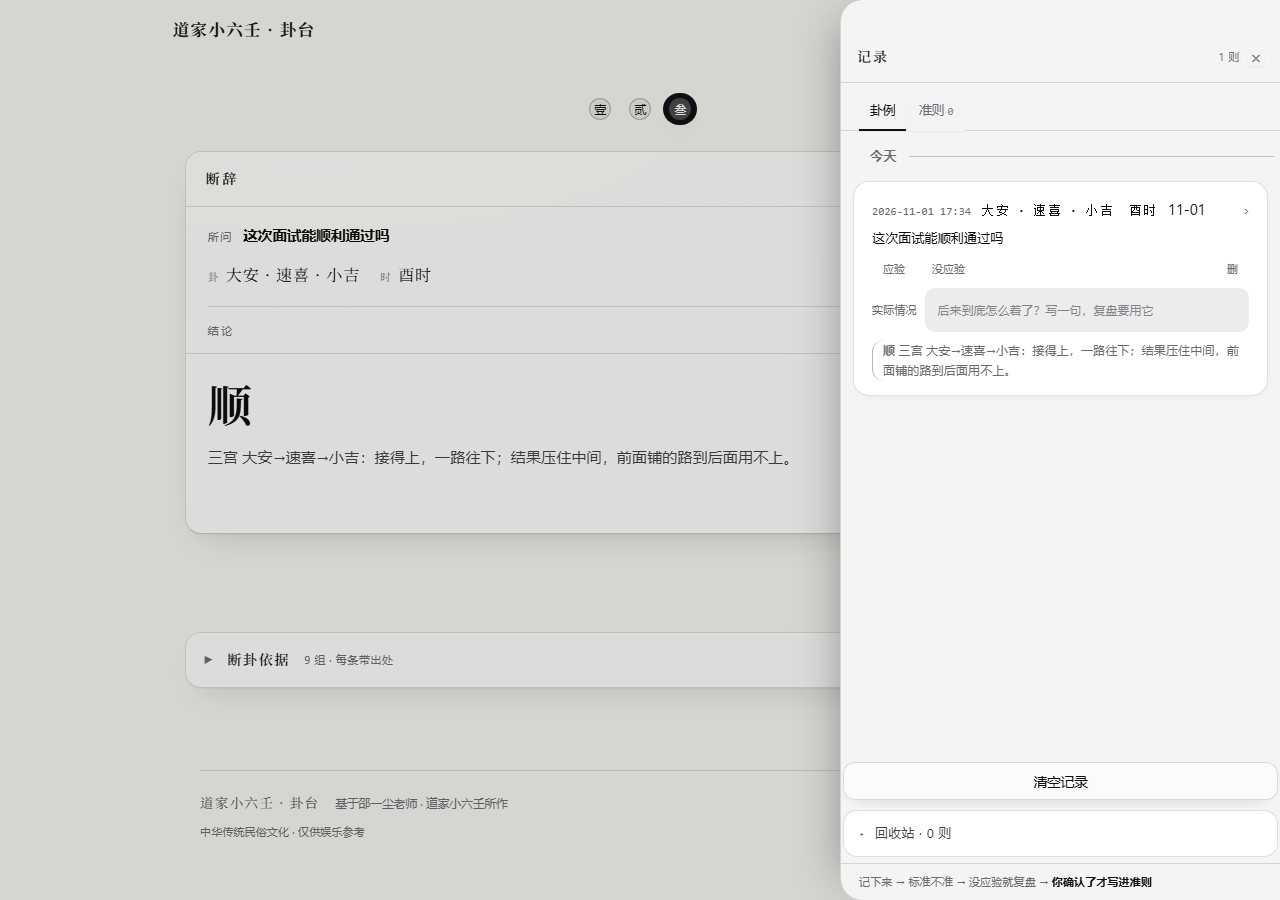
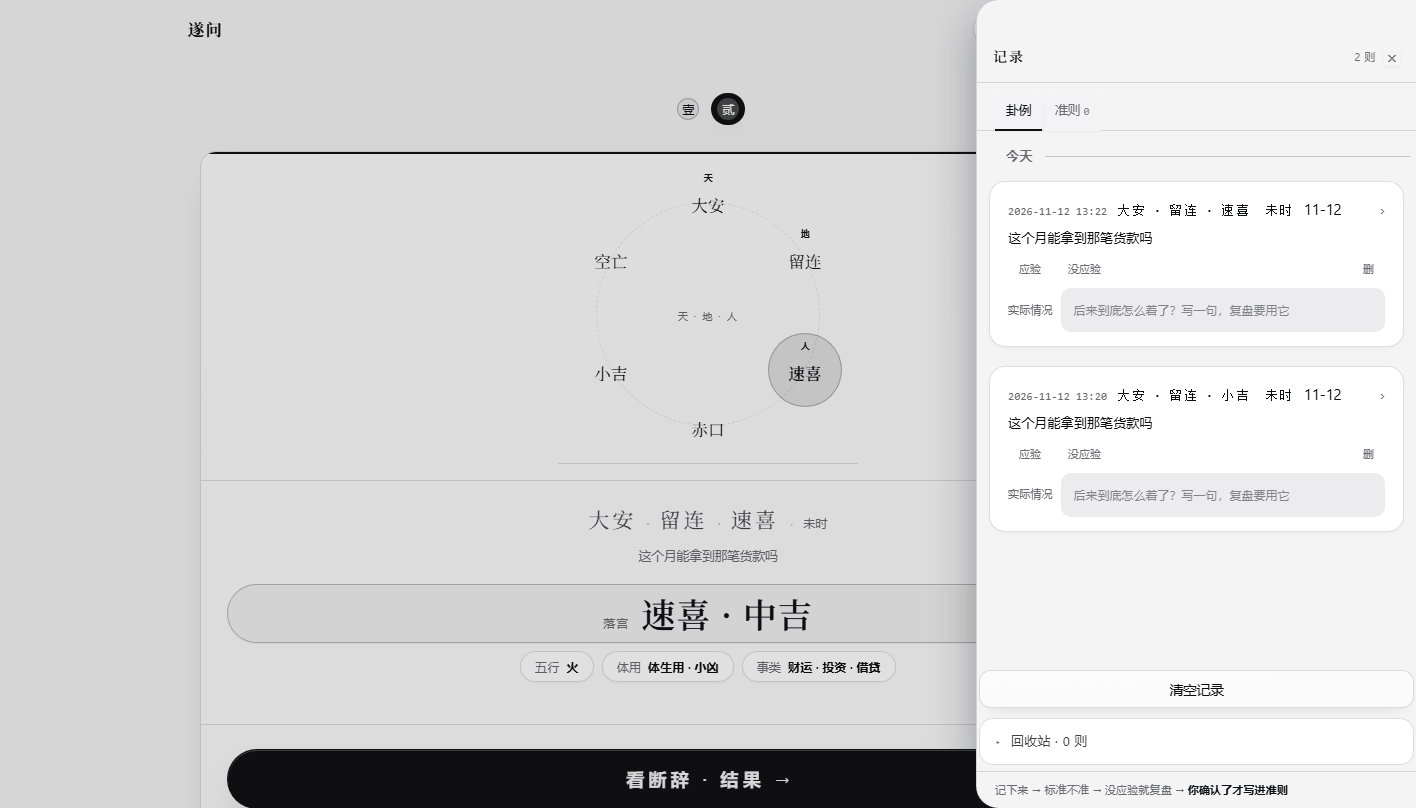
界面预览重做：桌面换成本窗口真截图，加手机端三张与开屏 GIF（2 个旧图下线）

diff --git a/README.md b/README.md
@@ -37,13 +37,23 @@
 
 ## 界面
 
-| 起卦 | 断卦 |
-|---|---|
-| ![起卦](docs/images/desktop-cast.png) | ![断卦](docs/images/desktop-divination.png) |
+桌面（Windows / macOS）：
 
-| 卦例本 | 皮肤 |
-|---|---|
-| ![卦例本](docs/images/desktop-records.png) | ![皮肤](docs/images/desktop-skins.png) |
+| 问卦 | 排盘 | 卦例本 |
+|---|---|---|
+| ![问卦](docs/images/desktop-ask.png) | ![排盘](docs/images/desktop-hexagram.png) | ![卦例本](docs/images/desktop-records.png) |
+
+手机（安卓与 iOS 是同一套界面，下面这组是 iOS 实机）：
+
+| 断卦 | 卦例本 | 外观 / 皮肤 |
+|---|---|---|
+| ![断卦](docs/images/phone-hexagram.jpg) | ![卦例本](docs/images/phone-records.jpg) | ![皮肤](docs/images/phone-skins.jpg) |
+
+开屏（手机端录屏，四秒多）：<br>
+<img src="docs/images/splash.gif" width="300" alt="开屏动画">
+
+> 图都是真机 / 真窗口截的，没有修图。皮肤、雾气的浓淡以你自己装上去看到的为准。
+
 
 ## 有哪几个端
 
